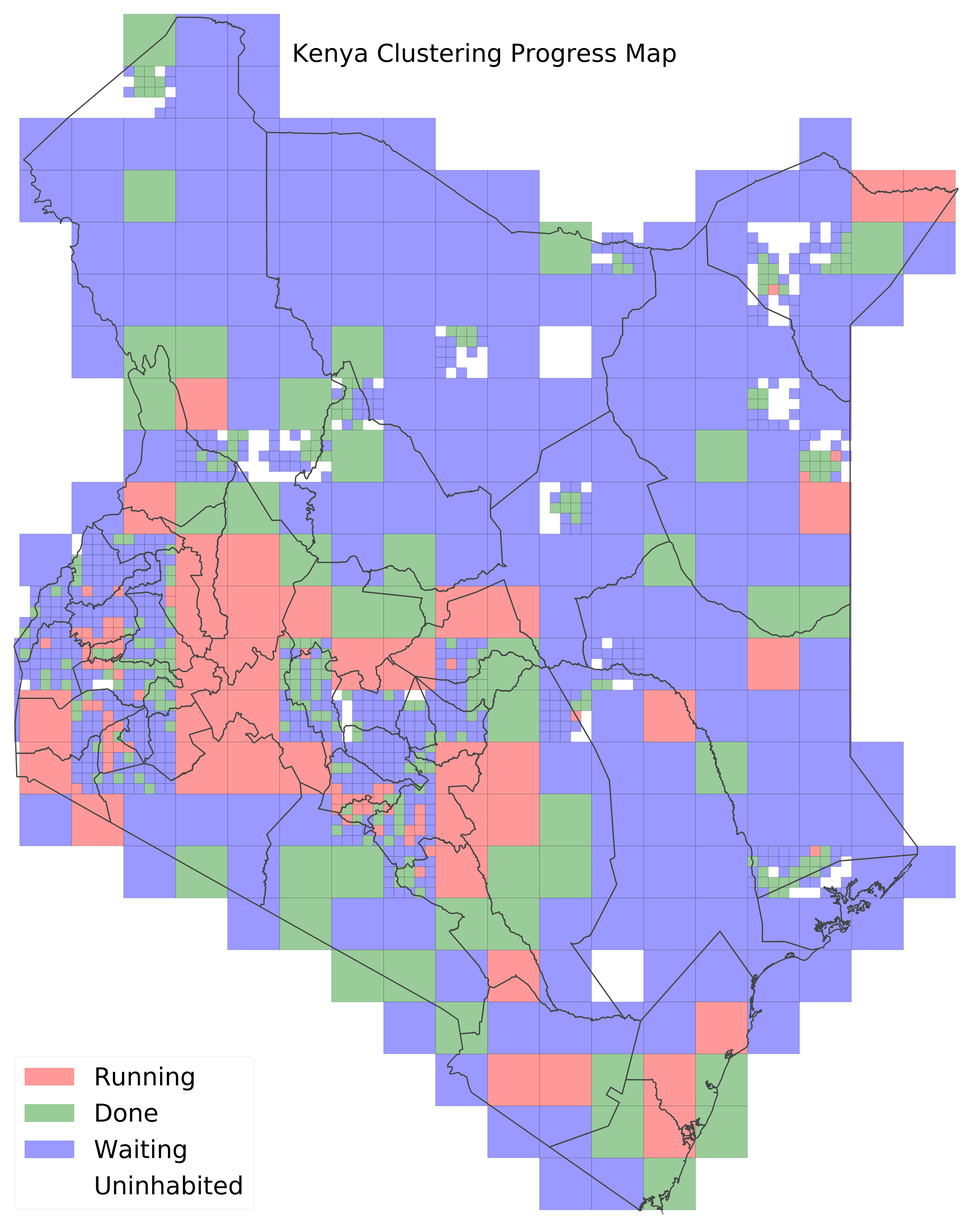
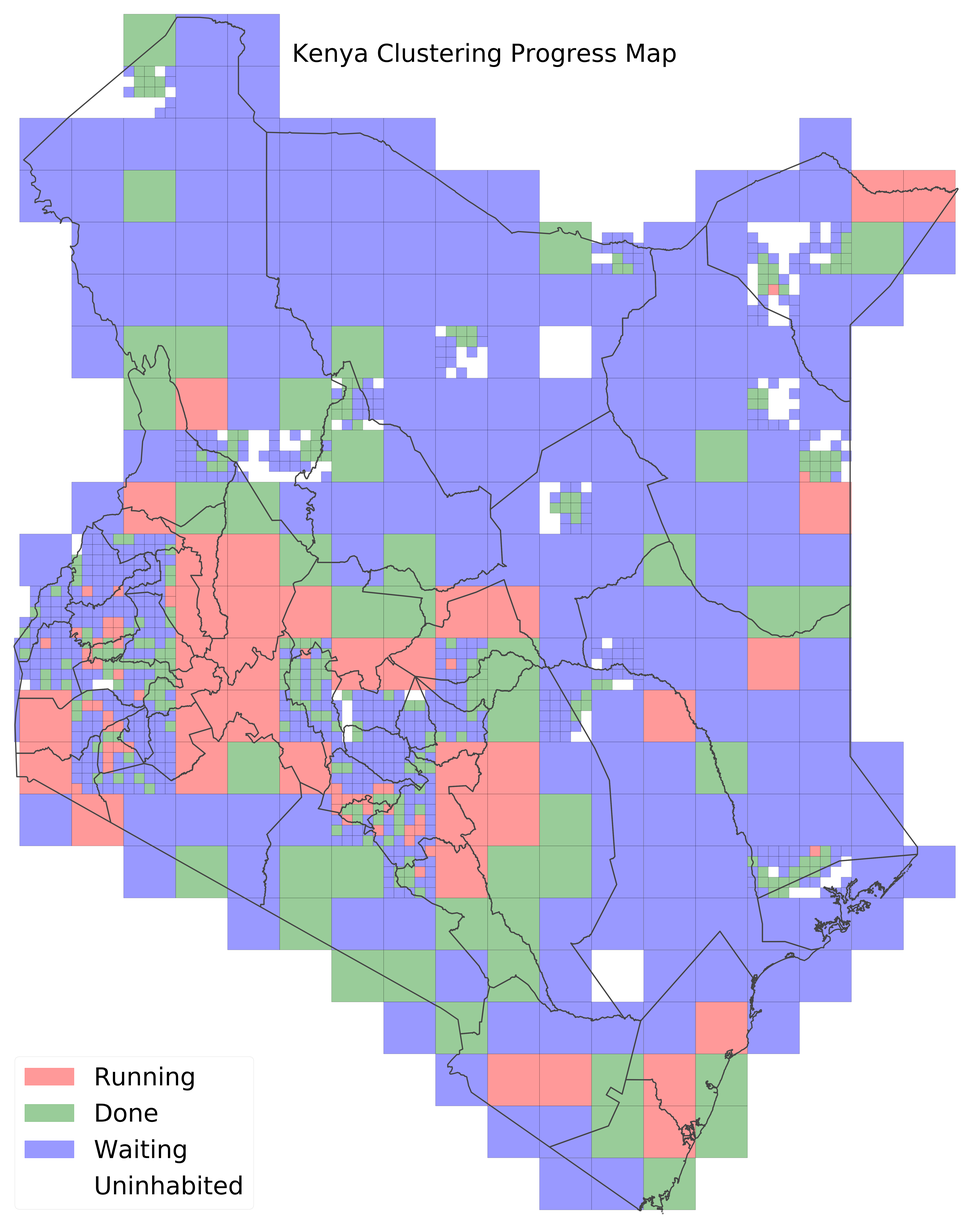
Update

Changed region(s): [[0.4989, 0.7492, 0.5613, 0.8429], [0.2183, 0.5931, 0.3118, 0.6556], [0.0624, 0.4995, 0.1247, 0.5619]]

diff --git a/index.html b/index.html
@@ -45,7 +45,7 @@
                 </table><!-- End One Column -->
                 <!-- One Column -->
                 <p class="middle">
-                    <img src='https://github.com/RohanNanda98/rohannanda98.github.io/blob/master/Progress_report1.png?raw=true' alt="" width="1000" height="800" class="middle">
+                    <img src='https://github.com/RohanNanda98/rohannanda98.github.io/blob/master/Progress_report1.png?raw=true' alt="" width="800" height="800" class="middle">
                 </p>
                 <table align="center" border="0" cellpadding="0" cellspacing="0" class="deviceWidth" style="margin:0 auto;" width="1200">
                     <tr>
@@ -54,15 +54,15 @@
                                 <div>
         
         
-            <div id="8b69a0d5-ba4a-495d-86c2-60410fb62d28" class="plotly-graph-div" style="height:100%; width:100%;"></div>
+            <div id="285cd63a-d2fc-46c3-9b2f-a508ca40efdb" class="plotly-graph-div" style="height:100%; width:100%;"></div>
             <script type="text/javascript">
                 
                     window.PLOTLYENV=window.PLOTLYENV || {};
                     
-                if (document.getElementById("8b69a0d5-ba4a-495d-86c2-60410fb62d28")) {
+                if (document.getElementById("285cd63a-d2fc-46c3-9b2f-a508ca40efdb")) {
                     Plotly.newPlot(
-                        '8b69a0d5-ba4a-495d-86c2-60410fb62d28',
-                        [{"labels": ["Completed", "Running", "Waiting", "Restarted"], "type": "pie", "values": [949, 109, 887, 50]}],
+                        '285cd63a-d2fc-46c3-9b2f-a508ca40efdb',
+                        [{"labels": ["Completed", "Running", "Waiting"], "type": "pie", "values": [1239, 124, 652]}],
                         {"template": {"data": {"bar": [{"error_x": {"color": "#2a3f5f"}, "error_y": {"color": "#2a3f5f"}, "marker": {"line": {"color": "#E5ECF6", "width": 0.5}}, "type": "bar"}], "barpolar": [{"marker": {"line": {"color": "#E5ECF6", "width": 0.5}}, "type": "barpolar"}], "carpet": [{"aaxis": {"endlinecolor": "#2a3f5f", "gridcolor": "white", "linecolor": "white", "minorgridcolor": "white", "startlinecolor": "#2a3f5f"}, "baxis": {"endlinecolor": "#2a3f5f", "gridcolor": "white", "linecolor": "white", "minorgridcolor": "white", "startlinecolor": "#2a3f5f"}, "type": "carpet"}], "choropleth": [{"colorbar": {"outlinewidth": 0, "ticks": ""}, "type": "choropleth"}], "contour": [{"colorbar": {"outlinewidth": 0, "ticks": ""}, "colorscale": [[0.0, "#0d0887"], [0.1111111111111111, "#46039f"], [0.2222222222222222, "#7201a8"], [0.3333333333333333, "#9c179e"], [0.4444444444444444, "#bd3786"], [0.5555555555555556, "#d8576b"], [0.6666666666666666, "#ed7953"], [0.7777777777777778, "#fb9f3a"], [0.8888888888888888, "#fdca26"], [1.0, "#f0f921"]], "type": "contour"}], "contourcarpet": [{"colorbar": {"outlinewidth": 0, "ticks": ""}, "type": "contourcarpet"}], "heatmap": [{"colorbar": {"outlinewidth": 0, "ticks": ""}, "colorscale": [[0.0, "#0d0887"], [0.1111111111111111, "#46039f"], [0.2222222222222222, "#7201a8"], [0.3333333333333333, "#9c179e"], [0.4444444444444444, "#bd3786"], [0.5555555555555556, "#d8576b"], [0.6666666666666666, "#ed7953"], [0.7777777777777778, "#fb9f3a"], [0.8888888888888888, "#fdca26"], [1.0, "#f0f921"]], "type": "heatmap"}], "heatmapgl": [{"colorbar": {"outlinewidth": 0, "ticks": ""}, "colorscale": [[0.0, "#0d0887"], [0.1111111111111111, "#46039f"], [0.2222222222222222, "#7201a8"], [0.3333333333333333, "#9c179e"], [0.4444444444444444, "#bd3786"], [0.5555555555555556, "#d8576b"], [0.6666666666666666, "#ed7953"], [0.7777777777777778, "#fb9f3a"], [0.8888888888888888, "#fdca26"], [1.0, "#f0f921"]], "type": "heatmapgl"}], "histogram": [{"marker": {"colorbar": {"outlinewidth": 0, "ticks": ""}}, "type": "histogram"}], "histogram2d": [{"colorbar": {"outlinewidth": 0, "ticks": ""}, "colorscale": [[0.0, "#0d0887"], [0.1111111111111111, "#46039f"], [0.2222222222222222, "#7201a8"], [0.3333333333333333, "#9c179e"], [0.4444444444444444, "#bd3786"], [0.5555555555555556, "#d8576b"], [0.6666666666666666, "#ed7953"], [0.7777777777777778, "#fb9f3a"], [0.8888888888888888, "#fdca26"], [1.0, "#f0f921"]], "type": "histogram2d"}], "histogram2dcontour": [{"colorbar": {"outlinewidth": 0, "ticks": ""}, "colorscale": [[0.0, "#0d0887"], [0.1111111111111111, "#46039f"], [0.2222222222222222, "#7201a8"], [0.3333333333333333, "#9c179e"], [0.4444444444444444, "#bd3786"], [0.5555555555555556, "#d8576b"], [0.6666666666666666, "#ed7953"], [0.7777777777777778, "#fb9f3a"], [0.8888888888888888, "#fdca26"], [1.0, "#f0f921"]], "type": "histogram2dcontour"}], "mesh3d": [{"colorbar": {"outlinewidth": 0, "ticks": ""}, "type": "mesh3d"}], "parcoords": [{"line": {"colorbar": {"outlinewidth": 0, "ticks": ""}}, "type": "parcoords"}], "scatter": [{"marker": {"colorbar": {"outlinewidth": 0, "ticks": ""}}, "type": "scatter"}], "scatter3d": [{"line": {"colorbar": {"outlinewidth": 0, "ticks": ""}}, "marker": {"colorbar": {"outlinewidth": 0, "ticks": ""}}, "type": "scatter3d"}], "scattercarpet": [{"marker": {"colorbar": {"outlinewidth": 0, "ticks": ""}}, "type": "scattercarpet"}], "scattergeo": [{"marker": {"colorbar": {"outlinewidth": 0, "ticks": ""}}, "type": "scattergeo"}], "scattergl": [{"marker": {"colorbar": {"outlinewidth": 0, "ticks": ""}}, "type": "scattergl"}], "scattermapbox": [{"marker": {"colorbar": {"outlinewidth": 0, "ticks": ""}}, "type": "scattermapbox"}], "scatterpolar": [{"marker": {"colorbar": {"outlinewidth": 0, "ticks": ""}}, "type": "scatterpolar"}], "scatterpolargl": [{"marker": {"colorbar": {"outlinewidth": 0, "ticks": ""}}, "type": "scatterpolargl"}], "scatterternary": [{"marker": {"colorbar": {"outlinewidth": 0, "ticks": ""}}, "type": "scatterternary"}], "surface": [{"colorbar": {"outlinewidth": 0, "ticks": ""}, "colorscale": [[0.0, "#0d0887"], [0.1111111111111111, "#46039f"], [0.2222222222222222, "#7201a8"], [0.3333333333333333, "#9c179e"], [0.4444444444444444, "#bd3786"], [0.5555555555555556, "#d8576b"], [0.6666666666666666, "#ed7953"], [0.7777777777777778, "#fb9f3a"], [0.8888888888888888, "#fdca26"], [1.0, "#f0f921"]], "type": "surface"}], "table": [{"cells": {"fill": {"color": "#EBF0F8"}, "line": {"color": "white"}}, "header": {"fill": {"color": "#C8D4E3"}, "line": {"color": "white"}}, "type": "table"}]}, "layout": {"annotationdefaults": {"arrowcolor": "#2a3f5f", "arrowhead": 0, "arrowwidth": 1}, "colorscale": {"diverging": [[0, "#8e0152"], [0.1, "#c51b7d"], [0.2, "#de77ae"], [0.3, "#f1b6da"], [0.4, "#fde0ef"], [0.5, "#f7f7f7"], [0.6, "#e6f5d0"], [0.7, "#b8e186"], [0.8, "#7fbc41"], [0.9, "#4d9221"], [1, "#276419"]], "sequential": [[0.0, "#0d0887"], [0.1111111111111111, "#46039f"], [0.2222222222222222, "#7201a8"], [0.3333333333333333, "#9c179e"], [0.4444444444444444, "#bd3786"], [0.5555555555555556, "#d8576b"], [0.6666666666666666, "#ed7953"], [0.7777777777777778, "#fb9f3a"], [0.8888888888888888, "#fdca26"], [1.0, "#f0f921"]], "sequentialminus": [[0.0, "#0d0887"], [0.1111111111111111, "#46039f"], [0.2222222222222222, "#7201a8"], [0.3333333333333333, "#9c179e"], [0.4444444444444444, "#bd3786"], [0.5555555555555556, "#d8576b"], [0.6666666666666666, "#ed7953"], [0.7777777777777778, "#fb9f3a"], [0.8888888888888888, "#fdca26"], [1.0, "#f0f921"]]}, "colorway": ["#636efa", "#EF553B", "#00cc96", "#ab63fa", "#FFA15A", "#19d3f3", "#FF6692", "#B6E880", "#FF97FF", "#FECB52"], "font": {"color": "#2a3f5f"}, "geo": {"bgcolor": "white", "lakecolor": "white", "landcolor": "#E5ECF6", "showlakes": true, "showland": true, "subunitcolor": "white"}, "hoverlabel": {"align": "left"}, "hovermode": "closest", "mapbox": {"style": "light"}, "paper_bgcolor": "white", "plot_bgcolor": "#E5ECF6", "polar": {"angularaxis": {"gridcolor": "white", "linecolor": "white", "ticks": ""}, "bgcolor": "#E5ECF6", "radialaxis": {"gridcolor": "white", "linecolor": "white", "ticks": ""}}, "scene": {"xaxis": {"backgroundcolor": "#E5ECF6", "gridcolor": "white", "gridwidth": 2, "linecolor": "white", "showbackground": true, "ticks": "", "zerolinecolor": "white"}, "yaxis": {"backgroundcolor": "#E5ECF6", "gridcolor": "white", "gridwidth": 2, "linecolor": "white", "showbackground": true, "ticks": "", "zerolinecolor": "white"}, "zaxis": {"backgroundcolor": "#E5ECF6", "gridcolor": "white", "gridwidth": 2, "linecolor": "white", "showbackground": true, "ticks": "", "zerolinecolor": "white"}}, "shapedefaults": {"line": {"color": "#2a3f5f"}}, "ternary": {"aaxis": {"gridcolor": "white", "linecolor": "white", "ticks": ""}, "baxis": {"gridcolor": "white", "linecolor": "white", "ticks": ""}, "bgcolor": "#E5ECF6", "caxis": {"gridcolor": "white", "linecolor": "white", "ticks": ""}}, "title": {"x": 0.05}, "xaxis": {"automargin": true, "gridcolor": "white", "linecolor": "white", "ticks": "", "zerolinecolor": "white", "zerolinewidth": 2}, "yaxis": {"automargin": true, "gridcolor": "white", "linecolor": "white", "ticks": "", "zerolinecolor": "white", "zerolinewidth": 2}}}, "title": {"text": "Status of Jobs"}},
                         {"responsive": true}
                     )
@@ -74,15 +74,15 @@
                                 <div>
         
         
-            <div id="e35ece43-a3d0-4626-8be9-98d990bf9740" class="plotly-graph-div" style="height:100%; width:100%;"></div>
+            <div id="8639ecad-6011-4d45-9a8b-41e2b49ff9a0" class="plotly-graph-div" style="height:100%; width:100%;"></div>
             <script type="text/javascript">
                 
                     window.PLOTLYENV=window.PLOTLYENV || {};
                     
-                if (document.getElementById("e35ece43-a3d0-4626-8be9-98d990bf9740")) {
+                if (document.getElementById("8639ecad-6011-4d45-9a8b-41e2b49ff9a0")) {
                     Plotly.newPlot(
-                        'e35ece43-a3d0-4626-8be9-98d990bf9740',
-                        [{"name": "completed", "nbinsx": 10, "opacity": 0.75, "type": "histogram", "x": [73, 186, 112, 69, 154, 153, 77, 162, 197, 94, 181, 140, 151, 108, 154, 161, 120, 54, 60, 56, 162, 129, 133, 164, 111, 118, 103, 180, 169, 130, 92, 70, 127, 149, 185, 105, 113, 194, 145, 192, 192, 99, 141, 77, 196, 193, 140, 184, 167, 133, 108, 54, 71, 56, 133, 126, 52, 111, 104, 68, 152, 119, 170, 62, 172, 68, 119, 57, 196, 142, 164, 112, 48, 159, 115, 98, 193, 112, 181, 188, 129, 169, 181, 71, 130, 173, 181, 202, 147, 94, 138, 90, 192, 162, 159, 68, 106, 71, 203, 83, 173, 159, 187, 182, 98, 150, 157, 182, 129, 48, 167, 53, 180, 122, 49, 174, 59, 155, 190, 82, 82, 61, 194, 102, 150, 184, 203, 166, 117, 154, 174, 103, 145, 122, 155, 198, 159, 191, 154, 142, 187, 57, 187, 135, 154, 91, 178, 91, 151, 176, 113, 158, 200, 161, 117, 172, 72, 56, 50, 123, 63, 134, 150, 161, 136, 82, 146, 67, 67, 72, 135, 91, 49, 115, 128, 162, 162, 153, 48, 176, 160, 193, 198, 72, 99, 96, 70, 189, 81, 75, 64, 68, 50, 133, 95, 200, 142, 85, 81, 105, 58, 56, 64, 77, 179, 109, 171, 185, 196, 152, 156, 159, 103, 201, 164, 55, 78, 181, 118, 164, 70, 134, 135, 174, 97, 96, 161, 190, 81, 163, 143, 51, 56, 110, 151, 192, 58, 188, 106, 177, 64, 196, 60, 119, 140, 95, 115, 72, 178, 121, 131, 203, 103, 72, 115, 115, 160, 200, 177, 181, 177, 75, 145, 105, 134, 78, 81, 185, 139, 98, 118, 203, 82, 114, 139, 82, 170, 140, 182, 68, 134, 143, 156, 60, 116, 86, 80, 178, 172, 84, 171, 202, 66, 104, 58, 159, 197, 203, 134, 54, 194, 199, 75, 70, 77, 159, 182, 171, 185, 182, 157, 78, 116, 141, 67, 155, 110, 96, 138, 167, 54, 146, 99, 174, 64, 116, 80, 181, 153, 145, 185, 186, 181, 110, 101, 91, 180, 55, 159, 79, 157, 160, 172, 183, 159, 135, 197, 190, 154, 189, 127, 78, 79, 198, 66, 159, 137, 181, 175, 62, 97, 117, 91, 69, 190, 56, 64, 67, 118, 88, 82, 157, 123, 70, 106, 156, 112, 53, 164, 106, 153, 161, 163, 183, 203, 171, 95, 193, 73, 102, 130, 108, 87, 175, 150, 103, 152, 169, 177, 80, 85, 85, 72, 167, 53, 151, 160, 70, 112, 72, 130, 169, 66, 115, 164, 194, 174, 84, 174, 189, 159, 156, 143, 130, 178, 62, 140, 68, 141, 113, 183, 193, 177, 173, 48, 171, 98, 96, 165, 73, 105, 188, 195, 162, 88, 125, 119, 155, 144, 184, 52, 128, 71, 149, 165, 148, 87, 107, 155, 71, 121, 91, 156, 127, 107, 77, 103, 175, 123, 189, 91, 59, 174, 86, 99, 101, 157, 150, 88, 124, 90, 193, 190, 77, 52, 66, 102, 135, 123, 154, 113, 60, 98, 116, 135, 171, 158, 97, 165, 76, 140, 48, 101, 89, 132, 63, 195, 107, 191, 167, 63, 166, 202, 54, 61, 131, 92, 203, 67, 113, 135, 85, 91, 200, 134, 159, 69, 111, 86, 137, 196, 90, 88, 104, 48, 124, 151, 68, 86, 66, 85, 77, 152, 65, 61, 146, 161, 124, 60, 50, 140, 88, 183, 168, 154, 137, 135, 77, 72, 129, 186, 59, 84, 158, 192, 162, 190, 113, 188, 188, 90, 75, 136, 145, 104, 161, 151, 80, 191, 199, 73, 102, 99, 107, 130, 163, 97, 77, 122, 147, 162, 126, 169, 55, 62, 63, 123, 199, 99, 96, 188, 142, 184, 84, 198, 68, 121, 201, 121, 98, 162, 160, 132, 185, 182, 54, 152, 65, 172, 65, 55, 127, 185, 65, 113, 59, 88, 133, 122, 113, 128, 158, 203, 141, 94, 65, 203, 195, 186, 203, 69, 144, 144, 48, 143, 77, 121, 203, 163, 189, 182, 173, 164, 58, 124, 48, 86, 130, 65, 199, 80, 82, 100, 179, 136, 163, 53, 117, 141, 133, 110, 154, 78, 190, 173, 97, 87, 115, 87, 123, 54, 164, 182, 101, 68, 145, 69, 190, 62, 191, 181, 189, 180, 160, 186, 142, 106, 148, 152, 128, 154, 164, 133, 189, 156, 153, 133, 133, 106, 85, 155, 137, 76, 147, 202, 83, 111, 164, 87, 93, 78, 66, 75, 154, 50, 197, 185, 53, 125, 75, 73, 200, 194, 81, 163, 169, 110, 106, 131, 102, 101, 195, 66, 56, 151, 129, 173, 177, 173, 53, 65, 87, 115, 116, 163, 69, 113, 84, 143, 96, 110, 121, 165, 197, 153, 155, 181, 142, 54, 182, 110, 123, 83, 161, 166, 160, 141, 92, 98, 160, 73, 167, 51, 186, 71, 136, 61, 170, 150, 132, 191, 142, 76, 49, 100, 192, 124, 90, 70, 57, 180, 111, 50, 127, 48, 123, 174, 191, 140, 185, 201, 77, 131, 78, 105, 76, 161, 89, 140, 187, 157, 68, 85, 86, 60, 85, 110, 186, 138, 93, 159, 166, 150, 101, 69, 155, 165, 94, 69, 171, 49, 57, 192, 175, 58, 82, 188, 194, 183, 92, 190, 103, 87, 155, 103, 135, 165, 196, 50, 136, 94, 54, 103, 75, 69, 155, 137, 100, 187, 157, 61, 94, 153, 156, 99, 59, 163, 100, 92, 110, 140, 101, 66, 152, 109, 170, 75, 178, 122, 111, 112, 176, 169, 79, 160, 101, 163, 151, 182, 51, 190, 68, 151, 80, 88, 65, 87, 161, 73, 77, 169, 192, 124, 195, 85, 125, 128, 97, 83, 133, 49, 153, 129, 57, 141, 113, 96, 74, 183, 133, 181, 192, 99, 149, 66, 84, 128, 109, 85, 191, 199, 152, 182, 201, 95, 149, 60, 165, 137, 2.031111111111111, 4.466388888888889, 2.283888888888889, 0.9975, 0.8438888888888889, 2.5505555555555555, 3.033333333333333, 2.411388888888889, 2.491111111111111, 1.0927777777777778, 0.5316666666666666, 0.5780555555555555, 24.197222222222223, 1.6658333333333333, 28.420555555555556, 0.26666666666666666, 23.060833333333335, 0.7233333333333334, 0.8855555555555555, 9.637777777777778, 1.8425, 31.005, 0.5672222222222222, 20.630555555555556, 22.455, 22.370833333333334, 23.79083333333333, 21.354444444444443, 19.971944444444443, 3.212222222222222, 8.153888888888888, 0.0475, 6.503888888888889, 13.894444444444444, 19.24111111111111, 3.609722222222222, 1.3916666666666666, 0.4816666666666667, 2.5830555555555557, 0.8047222222222222, 10.467777777777778, 1.2677777777777777, 1.478611111111111, 0.9805555555555555, 2.4947222222222223, 2.08, 1.2147222222222223, 2.67, 0.8016666666666666, 0.8102777777777778, 1.4661111111111111, 0.6427777777777778, 1.5386111111111112, 0.5702777777777778, 0.6763888888888889, 0.4413888888888889, 0.7380555555555556, 1.9758333333333333, 1.6069444444444445, 2.1783333333333332, 0.6638888888888889, 1.8441666666666667, 2.5775, 0.5233333333333333, 1.1725, 0.8355555555555556, 0.09277777777777778, 9.077777777777778, 2.2472222222222222, 6.5472222222222225, 0.8438888888888889, 10.242222222222223, 14.444444444444445, 2.345833333333333, 61.20333333333333, 29.88277777777778, 12.167777777777777, 12.612222222222222, 2.9616666666666664, 18.55027777777778, 18.9375, 1.0622222222222222, 0.030555555555555555, 0.895, 0.9008333333333334, 5.648888888888889, 2.1194444444444445, 2.069166666666667, 0.7605555555555555, 0.9391666666666667, 0.9919444444444444, 1.5966666666666667, 0.455, 2.578888888888889, 1.0191666666666668, 0.5861111111111111, 0.7980555555555555, 0.9908333333333333, 0.8102777777777778, 2.0855555555555556, 1.2930555555555556, 0.49666666666666665, 0.7963888888888889, 0.6727777777777778, 1.8919444444444444, 3.2825, 1.7213888888888889, 4.4191666666666665, 0.9858333333333333, 0.5313888888888889, 2.8847222222222224, 0.8988888888888888, 24.361944444444443, 1.8658333333333332, 13.203611111111112, 4.999444444444444, 9.410555555555556, 3.6205555555555557, 0.01611111111111111, 1.0013888888888889, 0.49777777777777776, 1.72, 1.5152777777777777, 2.944166666666667, 0.7013888888888888, 3.9683333333333333, 1.4580555555555557, 1.6258333333333332, 4.766944444444444, 2.601111111111111, 2.858611111111111, 5.996944444444445, 39.54611111111111, 0.48944444444444446, 0.5480555555555555, 1.746388888888889, 1.6552777777777778, 2.06, 5.045, 0.7233333333333334, 1.4325, 1.8211111111111111, 3.6222222222222222, 1.1877777777777778, 0.6183333333333333, 1.7886111111111112, 0.8738888888888889, 6.608333333333333, 2.5058333333333334, 0.6230555555555556, 2.5380555555555557, 0.5755555555555556, 0.7380555555555556, 0.6075, 1.7419444444444445, 1.6569444444444446, 1.5138888888888888, 1.4522222222222223, 0.9008333333333334, 3.617777777777778, 8.23611111111111, 9.174722222222222, 20.2425, 4.252777777777778, 3.6494444444444443, 1.3888888888888888, 1.7944444444444445, 1.6125, 1.1652777777777779, 1.3772222222222221, 0.7691666666666667, 1.2405555555555556, 2.1055555555555556, 1.0272222222222223, 1.9277777777777778, 0.7922222222222223, 0.7747222222222222, 0.5466666666666666, 1.6980555555555557, 47.75861111111111, 0.7877777777777778, 0.030555555555555555, 13.573055555555555, 5.949166666666667, 0.058333333333333334, 11.368611111111111, 20.272777777777776, 16.977222222222224, 13.035277777777777, 1.6475, 1.3702777777777777, 1.0741666666666667, 5.3741666666666665, 1.373888888888889, 10.895833333333334, 5.267222222222222, 10.899722222222222, 1.0230555555555556, 1.5475, 0.5244444444444445, 9.446111111111112, 0.4525, 44.376666666666665, 40.350833333333334, 20.18, 2.6597222222222223, 1.1644444444444444, 4.857222222222222, 21.051944444444445, 20.212222222222223, 5.1275, 3.0369444444444444, 10.215555555555556, 2.825, 5.650833333333333, 0.4633333333333333, 0.5955555555555555, 7.124722222222222, 0.05611111111111111, 3.7263888888888888, 2.5830555555555557, 0.026111111111111113, 0.027777777777777776, 2.799722222222222, 8.198888888888888, 4.545555555555556, 14.094722222222222, 0.06694444444444445, 12.884722222222223, 3.8775, 4.628611111111111, 1.743611111111111, 4.0025, 0.8169444444444445, 19.469166666666666, 25.860833333333332, 6.728611111111111, 21.21, 26.59638888888889, 3.7311111111111113, 3.147777777777778, 0.34694444444444444, 22.386111111111113, 2.9869444444444446, 8.630555555555556, 21.063055555555554, 23.102222222222224, 7.5808333333333335, 25.999444444444446]}, {"name": "running", "nbinsx": 10, "opacity": 0.75, "type": "histogram", "x": [1, 1, 1, 1, 1, 1, 1, 1, 1, 1, 1, 1, 1, 1, 1, 1, 1, 1, 1, 1, 1, 1, 1, 1, 1, 1, 1, 1, 1, 1, 1, 1, 1, 1, 1, 1, 1, 1, 1, 1, 1, 1, 1, 1, 75, 75, 75, 75, 75, 75, 75, 75, 75, 75, 75, 75, 71, 71, 71, 71, 71, 71, 70, 70, 2, 4, 5, 69, 7, 9, 11, 13, 63, 63, 63, 62, 24, 24, 27, 27, 51, 52, 53, 53, 54, 54, 54, 54, 54, 54, 55, 55, 55, 55, 56, 56, 56, 56, 33, 33, 33, 33, 33, 33, 33, 33, 33, 33, 33]}],
+                        '8639ecad-6011-4d45-9a8b-41e2b49ff9a0',
+                        [{"name": "completed", "nbinsx": 10, "opacity": 0.75, "type": "histogram", "x": [147, 69, 201, 120, 125, 118, 87, 171, 110, 156, 170, 83, 83, 93, 83, 86, 139, 150, 124, 170, 100, 155, 157, 174, 52, 57, 123, 136, 158, 86, 147, 59, 96, 202, 60, 118, 126, 120, 71, 172, 146, 151, 143, 178, 147, 131, 147, 68, 176, 83, 115, 66, 153, 103, 90, 159, 181, 166, 58, 187, 117, 152, 60, 128, 90, 159, 50, 98, 153, 185, 145, 176, 141, 203, 69, 196, 115, 170, 197, 79, 152, 184, 90, 160, 175, 52, 146, 50, 194, 113, 184, 103, 151, 81, 87, 163, 142, 60, 177, 83, 96, 120, 50, 59, 163, 147, 188, 111, 188, 115, 80, 129, 162, 60, 169, 175, 153, 188, 128, 139, 191, 196, 93, 99, 128, 149, 127, 170, 64, 93, 178, 56, 54, 92, 66, 187, 95, 123, 87, 193, 196, 138, 62, 152, 55, 185, 193, 136, 70, 63, 59, 165, 173, 155, 195, 182, 198, 185, 161, 120, 112, 69, 130, 115, 60, 50, 151, 151, 137, 116, 132, 192, 141, 114, 135, 94, 190, 177, 123, 139, 183, 149, 129, 195, 83, 152, 179, 166, 123, 167, 111, 99, 135, 131, 69, 53, 156, 82, 48, 189, 90, 113, 86, 178, 167, 192, 162, 162, 166, 144, 92, 126, 139, 167, 148, 53, 78, 55, 59, 154, 52, 67, 63, 167, 190, 125, 114, 194, 76, 65, 187, 51, 173, 161, 64, 147, 161, 135, 192, 151, 133, 65, 187, 114, 151, 83, 100, 155, 121, 115, 151, 165, 123, 189, 64, 155, 145, 103, 188, 170, 68, 89, 126, 132, 101, 90, 56, 95, 59, 133, 117, 128, 89, 161, 175, 82, 58, 136, 98, 121, 114, 120, 135, 172, 120, 168, 194, 131, 95, 153, 70, 177, 68, 69, 159, 139, 56, 124, 161, 105, 59, 193, 78, 128, 123, 116, 55, 71, 198, 53, 116, 125, 154, 102, 80, 143, 128, 111, 90, 88, 72, 76, 203, 122, 55, 87, 203, 94, 83, 73, 139, 87, 134, 122, 98, 145, 189, 180, 64, 199, 92, 141, 143, 99, 199, 161, 181, 82, 165, 129, 120, 60, 102, 162, 166, 150, 75, 102, 130, 182, 168, 50, 91, 168, 71, 166, 143, 76, 61, 202, 134, 202, 89, 89, 133, 111, 132, 92, 171, 93, 162, 148, 138, 78, 164, 105, 173, 155, 134, 102, 61, 92, 189, 137, 173, 163, 84, 58, 156, 180, 203, 72, 64, 93, 168, 54, 64, 113, 149, 118, 86, 190, 95, 100, 150, 198, 198, 56, 87, 74, 54, 143, 173, 111, 139, 128, 156, 189, 96, 59, 84, 92, 178, 125, 62, 158, 154, 198, 152, 100, 144, 103, 158, 111, 145, 99, 73, 105, 116, 179, 100, 60, 141, 154, 170, 58, 114, 109, 162, 166, 194, 162, 152, 172, 99, 144, 142, 151, 163, 92, 186, 57, 135, 173, 115, 152, 70, 154, 171, 157, 182, 158, 190, 112, 139, 173, 162, 191, 77, 92, 109, 200, 165, 108, 117, 115, 87, 100, 65, 50, 116, 133, 78, 173, 120, 155, 187, 126, 193, 121, 48, 100, 161, 172, 176, 59, 179, 131, 112, 110, 114, 188, 167, 146, 85, 184, 116, 118, 114, 157, 165, 180, 179, 50, 183, 95, 146, 77, 131, 176, 175, 121, 61, 71, 53, 152, 147, 180, 197, 112, 143, 193, 169, 100, 193, 113, 180, 119, 50, 60, 61, 166, 75, 126, 87, 148, 172, 149, 62, 177, 70, 181, 78, 181, 48, 152, 165, 132, 48, 184, 65, 201, 102, 132, 173, 119, 177, 49, 76, 189, 104, 195, 166, 115, 72, 121, 202, 114, 99, 61, 94, 72, 185, 100, 89, 70, 89, 142, 68, 80, 77, 187, 120, 137, 72, 92, 117, 146, 86, 48, 164, 140, 130, 155, 119, 116, 70, 73, 60, 79, 128, 186, 88, 159, 128, 173, 48, 188, 82, 150, 96, 201, 161, 122, 130, 202, 186, 155, 49, 164, 101, 165, 105, 109, 51, 99, 60, 62, 167, 70, 138, 150, 196, 49, 150, 192, 144, 127, 175, 77, 90, 183, 199, 98, 122, 91, 107, 51, 52, 90, 101, 65, 57, 189, 166, 163, 106, 99, 128, 74, 169, 136, 173, 72, 143, 181, 129, 97, 74, 79, 81, 106, 165, 95, 61, 151, 165, 153, 130, 62, 95, 85, 91, 60, 105, 67, 66, 166, 84, 200, 113, 173, 87, 199, 140, 150, 152, 88, 177, 130, 53, 126, 55, 71, 109, 184, 63, 48, 91, 87, 197, 75, 142, 171, 203, 110, 51, 55, 161, 153, 153, 187, 65, 111, 146, 138, 52, 132, 160, 160, 51, 110, 139, 173, 189, 108, 126, 74, 136, 91, 156, 169, 116, 189, 195, 149, 192, 161, 184, 171, 139, 104, 110, 107, 195, 80, 57, 113, 128, 155, 185, 196, 48, 193, 162, 161, 192, 134, 129, 173, 102, 60, 151, 62, 197, 107, 94, 163, 74, 195, 184, 100, 85, 155, 72, 180, 143, 79, 199, 136, 168, 140, 94, 94, 56, 164, 60, 66, 87, 67, 164, 115, 133, 145, 81, 92, 129, 102, 190, 130, 49, 193, 112, 52, 154, 92, 146, 98, 130, 80, 71, 130, 63, 88, 187, 97, 76, 111, 150, 171, 191, 196, 53, 141, 51, 197, 122, 103, 80, 142, 94, 100, 106, 179, 139, 118, 76, 74, 133, 147, 192, 55, 160, 97, 183, 142, 154, 83, 108, 70, 106, 117, 74, 122, 203, 176, 171, 185, 115, 202, 154, 78, 87, 125, 105, 154, 175, 197, 102, 113, 75, 127, 52, 169, 116, 176, 92, 98, 67, 196, 156, 67, 109, 171, 94, 188, 102, 89, 161, 63, 100, 72, 126, 97, 65, 179, 48, 188, 79, 180, 153, 116, 135, 177, 139, 141, 146, 152, 112]}, {"name": "running", "nbinsx": 10, "opacity": 0.75, "type": "histogram", "x": []}],
                         {"bargap": 0.2, "bargroupgap": 0.1, "barmode": "overlay", "template": {"data": {"bar": [{"error_x": {"color": "#2a3f5f"}, "error_y": {"color": "#2a3f5f"}, "marker": {"line": {"color": "#E5ECF6", "width": 0.5}}, "type": "bar"}], "barpolar": [{"marker": {"line": {"color": "#E5ECF6", "width": 0.5}}, "type": "barpolar"}], "carpet": [{"aaxis": {"endlinecolor": "#2a3f5f", "gridcolor": "white", "linecolor": "white", "minorgridcolor": "white", "startlinecolor": "#2a3f5f"}, "baxis": {"endlinecolor": "#2a3f5f", "gridcolor": "white", "linecolor": "white", "minorgridcolor": "white", "startlinecolor": "#2a3f5f"}, "type": "carpet"}], "choropleth": [{"colorbar": {"outlinewidth": 0, "ticks": ""}, "type": "choropleth"}], "contour": [{"colorbar": {"outlinewidth": 0, "ticks": ""}, "colorscale": [[0.0, "#0d0887"], [0.1111111111111111, "#46039f"], [0.2222222222222222, "#7201a8"], [0.3333333333333333, "#9c179e"], [0.4444444444444444, "#bd3786"], [0.5555555555555556, "#d8576b"], [0.6666666666666666, "#ed7953"], [0.7777777777777778, "#fb9f3a"], [0.8888888888888888, "#fdca26"], [1.0, "#f0f921"]], "type": "contour"}], "contourcarpet": [{"colorbar": {"outlinewidth": 0, "ticks": ""}, "type": "contourcarpet"}], "heatmap": [{"colorbar": {"outlinewidth": 0, "ticks": ""}, "colorscale": [[0.0, "#0d0887"], [0.1111111111111111, "#46039f"], [0.2222222222222222, "#7201a8"], [0.3333333333333333, "#9c179e"], [0.4444444444444444, "#bd3786"], [0.5555555555555556, "#d8576b"], [0.6666666666666666, "#ed7953"], [0.7777777777777778, "#fb9f3a"], [0.8888888888888888, "#fdca26"], [1.0, "#f0f921"]], "type": "heatmap"}], "heatmapgl": [{"colorbar": {"outlinewidth": 0, "ticks": ""}, "colorscale": [[0.0, "#0d0887"], [0.1111111111111111, "#46039f"], [0.2222222222222222, "#7201a8"], [0.3333333333333333, "#9c179e"], [0.4444444444444444, "#bd3786"], [0.5555555555555556, "#d8576b"], [0.6666666666666666, "#ed7953"], [0.7777777777777778, "#fb9f3a"], [0.8888888888888888, "#fdca26"], [1.0, "#f0f921"]], "type": "heatmapgl"}], "histogram": [{"marker": {"colorbar": {"outlinewidth": 0, "ticks": ""}}, "type": "histogram"}], "histogram2d": [{"colorbar": {"outlinewidth": 0, "ticks": ""}, "colorscale": [[0.0, "#0d0887"], [0.1111111111111111, "#46039f"], [0.2222222222222222, "#7201a8"], [0.3333333333333333, "#9c179e"], [0.4444444444444444, "#bd3786"], [0.5555555555555556, "#d8576b"], [0.6666666666666666, "#ed7953"], [0.7777777777777778, "#fb9f3a"], [0.8888888888888888, "#fdca26"], [1.0, "#f0f921"]], "type": "histogram2d"}], "histogram2dcontour": [{"colorbar": {"outlinewidth": 0, "ticks": ""}, "colorscale": [[0.0, "#0d0887"], [0.1111111111111111, "#46039f"], [0.2222222222222222, "#7201a8"], [0.3333333333333333, "#9c179e"], [0.4444444444444444, "#bd3786"], [0.5555555555555556, "#d8576b"], [0.6666666666666666, "#ed7953"], [0.7777777777777778, "#fb9f3a"], [0.8888888888888888, "#fdca26"], [1.0, "#f0f921"]], "type": "histogram2dcontour"}], "mesh3d": [{"colorbar": {"outlinewidth": 0, "ticks": ""}, "type": "mesh3d"}], "parcoords": [{"line": {"colorbar": {"outlinewidth": 0, "ticks": ""}}, "type": "parcoords"}], "scatter": [{"marker": {"colorbar": {"outlinewidth": 0, "ticks": ""}}, "type": "scatter"}], "scatter3d": [{"line": {"colorbar": {"outlinewidth": 0, "ticks": ""}}, "marker": {"colorbar": {"outlinewidth": 0, "ticks": ""}}, "type": "scatter3d"}], "scattercarpet": [{"marker": {"colorbar": {"outlinewidth": 0, "ticks": ""}}, "type": "scattercarpet"}], "scattergeo": [{"marker": {"colorbar": {"outlinewidth": 0, "ticks": ""}}, "type": "scattergeo"}], "scattergl": [{"marker": {"colorbar": {"outlinewidth": 0, "ticks": ""}}, "type": "scattergl"}], "scattermapbox": [{"marker": {"colorbar": {"outlinewidth": 0, "ticks": ""}}, "type": "scattermapbox"}], "scatterpolar": [{"marker": {"colorbar": {"outlinewidth": 0, "ticks": ""}}, "type": "scatterpolar"}], "scatterpolargl": [{"marker": {"colorbar": {"outlinewidth": 0, "ticks": ""}}, "type": "scatterpolargl"}], "scatterternary": [{"marker": {"colorbar": {"outlinewidth": 0, "ticks": ""}}, "type": "scatterternary"}], "surface": [{"colorbar": {"outlinewidth": 0, "ticks": ""}, "colorscale": [[0.0, "#0d0887"], [0.1111111111111111, "#46039f"], [0.2222222222222222, "#7201a8"], [0.3333333333333333, "#9c179e"], [0.4444444444444444, "#bd3786"], [0.5555555555555556, "#d8576b"], [0.6666666666666666, "#ed7953"], [0.7777777777777778, "#fb9f3a"], [0.8888888888888888, "#fdca26"], [1.0, "#f0f921"]], "type": "surface"}], "table": [{"cells": {"fill": {"color": "#EBF0F8"}, "line": {"color": "white"}}, "header": {"fill": {"color": "#C8D4E3"}, "line": {"color": "white"}}, "type": "table"}]}, "layout": {"annotationdefaults": {"arrowcolor": "#2a3f5f", "arrowhead": 0, "arrowwidth": 1}, "colorscale": {"diverging": [[0, "#8e0152"], [0.1, "#c51b7d"], [0.2, "#de77ae"], [0.3, "#f1b6da"], [0.4, "#fde0ef"], [0.5, "#f7f7f7"], [0.6, "#e6f5d0"], [0.7, "#b8e186"], [0.8, "#7fbc41"], [0.9, "#4d9221"], [1, "#276419"]], "sequential": [[0.0, "#0d0887"], [0.1111111111111111, "#46039f"], [0.2222222222222222, "#7201a8"], [0.3333333333333333, "#9c179e"], [0.4444444444444444, "#bd3786"], [0.5555555555555556, "#d8576b"], [0.6666666666666666, "#ed7953"], [0.7777777777777778, "#fb9f3a"], [0.8888888888888888, "#fdca26"], [1.0, "#f0f921"]], "sequentialminus": [[0.0, "#0d0887"], [0.1111111111111111, "#46039f"], [0.2222222222222222, "#7201a8"], [0.3333333333333333, "#9c179e"], [0.4444444444444444, "#bd3786"], [0.5555555555555556, "#d8576b"], [0.6666666666666666, "#ed7953"], [0.7777777777777778, "#fb9f3a"], [0.8888888888888888, "#fdca26"], [1.0, "#f0f921"]]}, "colorway": ["#636efa", "#EF553B", "#00cc96", "#ab63fa", "#FFA15A", "#19d3f3", "#FF6692", "#B6E880", "#FF97FF", "#FECB52"], "font": {"color": "#2a3f5f"}, "geo": {"bgcolor": "white", "lakecolor": "white", "landcolor": "#E5ECF6", "showlakes": true, "showland": true, "subunitcolor": "white"}, "hoverlabel": {"align": "left"}, "hovermode": "closest", "mapbox": {"style": "light"}, "paper_bgcolor": "white", "plot_bgcolor": "#E5ECF6", "polar": {"angularaxis": {"gridcolor": "white", "linecolor": "white", "ticks": ""}, "bgcolor": "#E5ECF6", "radialaxis": {"gridcolor": "white", "linecolor": "white", "ticks": ""}}, "scene": {"xaxis": {"backgroundcolor": "#E5ECF6", "gridcolor": "white", "gridwidth": 2, "linecolor": "white", "showbackground": true, "ticks": "", "zerolinecolor": "white"}, "yaxis": {"backgroundcolor": "#E5ECF6", "gridcolor": "white", "gridwidth": 2, "linecolor": "white", "showbackground": true, "ticks": "", "zerolinecolor": "white"}, "zaxis": {"backgroundcolor": "#E5ECF6", "gridcolor": "white", "gridwidth": 2, "linecolor": "white", "showbackground": true, "ticks": "", "zerolinecolor": "white"}}, "shapedefaults": {"line": {"color": "#2a3f5f"}}, "ternary": {"aaxis": {"gridcolor": "white", "linecolor": "white", "ticks": ""}, "baxis": {"gridcolor": "white", "linecolor": "white", "ticks": ""}, "bgcolor": "#E5ECF6", "caxis": {"gridcolor": "white", "linecolor": "white", "ticks": ""}}, "title": {"x": 0.05}, "xaxis": {"automargin": true, "gridcolor": "white", "linecolor": "white", "ticks": "", "zerolinecolor": "white", "zerolinewidth": 2}, "yaxis": {"automargin": true, "gridcolor": "white", "linecolor": "white", "ticks": "", "zerolinecolor": "white", "zerolinewidth": 2}}}, "title": {"text": "Run Times and Time Elapsed"}, "xaxis": {"title": {"text": "Time (hrs)"}}, "yaxis": {"title": {"text": "Count"}}},
                         {"responsive": true}
                     )
@@ -94,6 +94,9 @@
                         </td>
                     </tr>
                 </table><!-- End One Column -->
+                <p class = "middle" font-size="16px">
+                    2019-08-18 19:22:47.623259
+                </p>
                 <!-- Footer -->
                 <table align="center" border="0" cellpadding="0" cellspacing="2" class="deviceWidth" style="margin:0 auto;border:none;border-top:solid #971B2F 1.5pt;border-bottom:solid #971B2F 1.5pt;" width="1200">
                     <tr>
